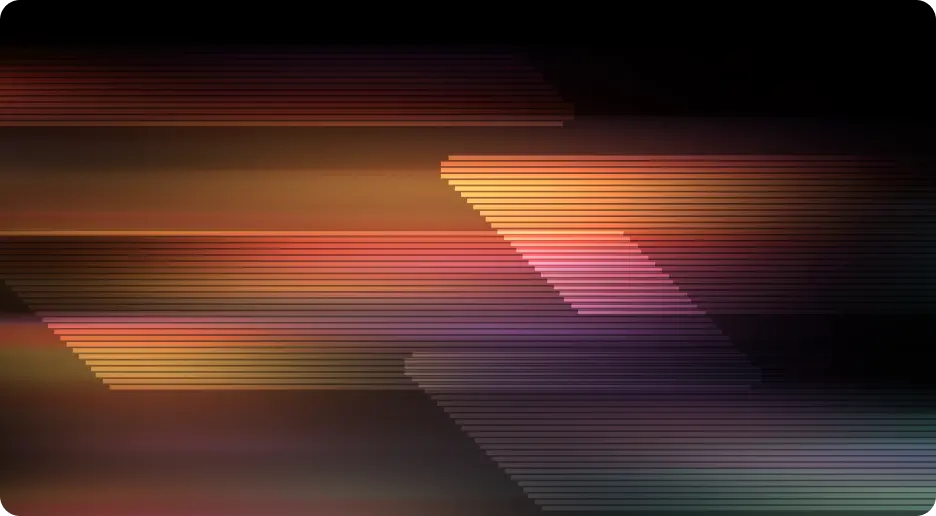
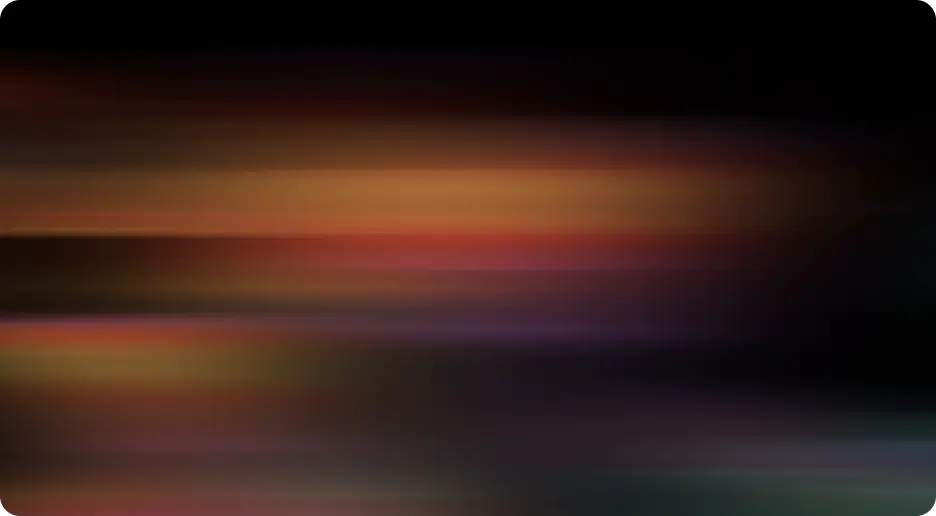
Add animation to the WhatIs component

diff --git a/apps/web/src/components/solutions/what-is-it.v2.tsx b/apps/web/src/components/solutions/what-is-it.v2.tsx
@@ -1,8 +1,10 @@
 "use client";
 
-import React from "react";
+import React, { useCallback, useId } from "react";
 import { useScrollTextHighlight } from "../../hooks/useScrollTextHighlight";
 import Image from "next/image";
+import { useViewportVisibility } from "@/hooks/useViewportVisibility";
+import { debounce } from "lodash";
 
 export type WhatIsItProps = {
   title: React.ReactNode;
@@ -25,6 +27,7 @@ export type WhatIsItProps = {
  * <WhatIsIt
  *   title="What is it?"
  *   description="This is a description of the section."
+ *   imageSrc="https://via.placeholder.com/150"
  * />
  */
 export const WhatIsIt = ({
@@ -33,12 +36,70 @@ export const WhatIsIt = ({
   highlightColor,
   imageSrc,
 }: WhatIsItProps) => {
+  const id = useId();
   const { ref } = useScrollTextHighlight<HTMLParagraphElement>({
     highlightColor: highlightColor || "rgba(255, 255, 255, 0.3)",
   });
 
+  const viewportHandler = useCallback(
+    (node: HTMLElement | null) => {
+      if (!node) return;
+
+      const part1 = document.getElementById(`what-is-part-1-${id}`);
+      const part2 = document.getElementById(`what-is-part-2-${id}`);
+      const part3 = document.getElementById(`what-is-part-3-${id}`);
+
+      if (!part1 || !part2 || !part3) return;
+
+      const debouncedMouseMoveHandler = debounce(
+        (event: MouseEvent) => {
+          // Calculate normalized mouse position (-1 to 1)
+          const mouseX = (event.clientX / node.clientWidth) * 2 - 1;
+          const mouseY = (event.clientY / node.clientHeight) * 2 - 1;
+
+          // Parallax effect: different layers move at different speeds
+          // part1 (closest layer) - moves more
+          const part1X = mouseX * 10; // 10% movement
+          const part1Y = mouseY * 10;
+
+          // part2 (middle layer) - moves moderately
+          const part2X = mouseX * 6; // 6% movement
+          const part2Y = mouseY * 6;
+
+          // part3 (farthest layer) - moves least
+          const part3X = mouseX * 4; // 4% movement
+          const part3Y = mouseY * 4;
+
+          if (part1X && part1Y)
+            part1.style.transform = `translateX(${part1X}%) translateY(${part1Y}%)`;
+          if (part2X && part2Y)
+            part2.style.transform = `translateX(${part2X}%) translateY(${part2Y}%)`;
+          if (part3X && part3Y)
+            part3.style.transform = `translateX(${part3X}%) translateY(${part3Y}%)`;
+        },
+        50,
+        { leading: true, maxWait: 100 },
+      );
+
+      node.addEventListener("mousemove", debouncedMouseMoveHandler);
+
+      return () => {
+        node.removeEventListener("mousemove", debouncedMouseMoveHandler);
+      };
+    },
+    [id],
+  );
+
+  const { ref: imageRef } = useViewportVisibility<HTMLImageElement>(
+    viewportHandler,
+    {
+      topOffset: 100,
+      bottomOffset: 100,
+    },
+  );
+
   return (
-    <section className="relative bg-black text-white text-left">
+    <section className="relative bg-black text-white text-left" ref={imageRef}>
       <div className="max-w-sm md:max-w-3xl xl:max-w-[1440px] mx-auto px-5 md:px-[32px] xl:px-[40px] pt-[64px] md:pt-[112px] xl:pt-[160px] pb-5 md:pb-[32px] xl:pb-[40px]">
         <h2 className="font-brand font-medium leading-none text-[40px] md:text-[48px] xl:text-[80px] max-w-2xl mb-[32px] xl:mb-[64px]">
           {title}
@@ -46,14 +107,43 @@ export const WhatIsIt = ({
         <div className="flex flex-col xl:flex-row gap-8 xl:gap-16">
           <div className="w-[35%] max-xl:hidden">
             {imageSrc && (
-              <Image
-                className="w-full h-auto object-cover"
-                src={imageSrc}
-                alt=""
-                width={600}
-                height={350}
-                loading="lazy"
-              />
+              <div className="relative overflow-hidden rounded-xl translate-z-0">
+                <Image
+                  id={`what-is-part-1-${id}`}
+                  className="w-full h-auto object-cover absolute top-[20%] left-[40%] mix-blend-overlay z-1"
+                  src={"/src/img/solutions/what-is-part.svg"}
+                  alt=""
+                  width={395}
+                  height={80}
+                  loading="lazy"
+                />
+                <Image
+                  id={`what-is-part-2-${id}`}
+                  className="w-full h-auto object-cover absolute top-[60%] left-[40%] mix-blend-overlay z-1"
+                  src={"/src/img/solutions/what-is-part.svg"}
+                  alt=""
+                  width={395}
+                  height={80}
+                  loading="lazy"
+                />
+                <Image
+                  id={`what-is-part-3-${id}`}
+                  className="w-full h-auto object-cover absolute top-[40%] -left-[15%] mix-blend-overlay z-1"
+                  src={"/src/img/solutions/what-is-part.svg"}
+                  alt=""
+                  width={395}
+                  height={80}
+                  loading="lazy"
+                />
+                <Image
+                  className="w-full h-auto object-cover block"
+                  src={imageSrc}
+                  alt=""
+                  width={600}
+                  height={350}
+                  loading="lazy"
+                />
+              </div>
             )}
           </div>
           <div className="relative w-full xl:w-3/5 max-w-2xl">

diff --git a/apps/web/src/hooks/useViewportVisibility.ts b/apps/web/src/hooks/useViewportVisibility.ts
@@ -1,0 +1,69 @@
+import { useLayoutEffect, useRef, useCallback } from "react";
+
+export interface UseViewportVisibilityOptions {
+  topOffset?: number;
+  bottomOffset?: number;
+}
+
+export const useViewportVisibility = <T extends HTMLElement>(
+  handler?: (_node: T | null) => void | ((_node: T | null) => void),
+  options: UseViewportVisibilityOptions = {},
+): { ref: React.RefObject<T> } => {
+  const { topOffset = 0, bottomOffset = 0 } = options;
+  const targetRef = useRef<T | null>(null);
+  const isVisibleRef = useRef(false);
+  const exitHandlerRef = useRef<((_node: T | null) => void) | null>(null);
+
+  const handleIntersection = useCallback(
+    (entries: IntersectionObserverEntry[]) => {
+      const [entry] = entries;
+      const isCurrentlyVisible = entry.isIntersecting;
+
+      // If node just became visible and wasn't visible before
+      if (isCurrentlyVisible && !isVisibleRef.current) {
+        isVisibleRef.current = true;
+        if (handler) {
+          const exitHandler = handler(targetRef.current);
+          exitHandlerRef.current = exitHandler || null;
+        }
+      }
+      // If node is no longer visible and was visible before
+      else if (!isCurrentlyVisible && isVisibleRef.current) {
+        isVisibleRef.current = false;
+        if (exitHandlerRef.current) {
+          exitHandlerRef.current(targetRef.current);
+          exitHandlerRef.current = null;
+        }
+      }
+    },
+    [handler],
+  );
+
+  useLayoutEffect(() => {
+    const node = targetRef.current;
+
+    // If node is not found, do nothing
+    if (!node) return;
+
+    // Create root margin based on offsets
+    const rootMargin = `${topOffset}px 0px ${bottomOffset}px 0px`;
+
+    const observer = new IntersectionObserver(handleIntersection, {
+      rootMargin,
+      threshold: 0, // Trigger as soon as any part is visible
+    });
+
+    observer.observe(node);
+
+    return () => {
+      observer.unobserve(node);
+      // Clean up any pending exit handler
+      if (exitHandlerRef.current) {
+        exitHandlerRef.current(node);
+        exitHandlerRef.current = null;
+      }
+    };
+  }, [handleIntersection, topOffset, bottomOffset]);
+
+  return { ref: targetRef };
+};

diff --git a/apps/web/src/app/globals.css b/apps/web/src/app/globals.css
@@ -311,3 +311,7 @@ html {
   animation: fadeInRight 0.6s ease-out forwards;
   opacity: 0;
 }
+
+.translate-z-0 {
+  transform: translateZ(0);
+}
